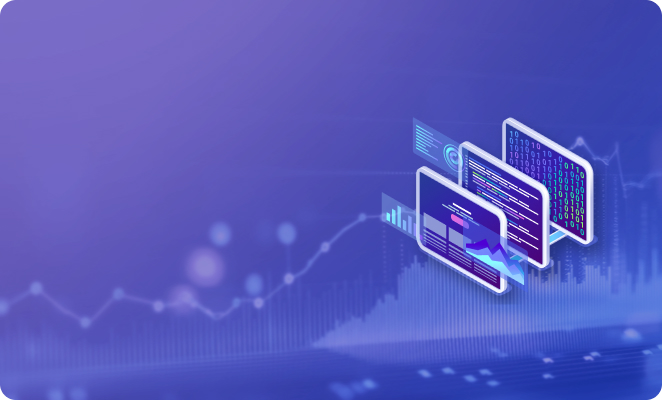
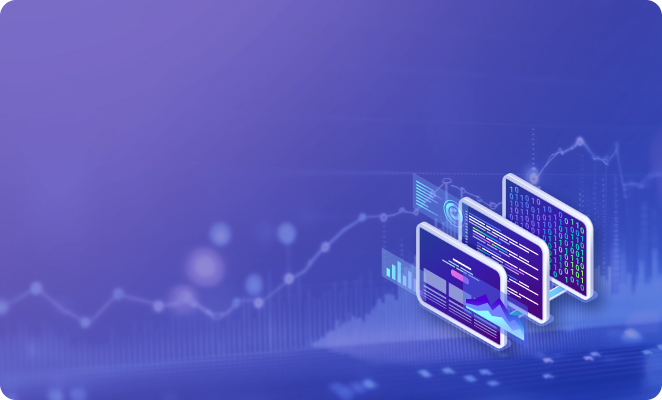
feat: 배경 이미지 지원이 추가된 purple-card 컴포넌트의 v2 변형 추가

Changed region(s): [[0.574, 0.3, 0.9366, 0.9]]

diff --git a/src/index2.html b/src/index2.html
@@ -1,101 +1,102 @@
 <!doctype html>
 <html lang="ko">
-  {% set pageTitle = "한국건강가정진흥원" %} {% include "_inc/head.html" %}
+{% set pageTitle = "한국건강가정진흥원" %} {% include "_inc/head.html" %}
 
-  <body>
-    {% include "_inc/header.html" %}
+<body>
+  {% include "_inc/header.html" %}
 
-    <main id="main-contents">
-      <section class="hero-section">
-        <div class="inner">
-          <div class="slogan-wrap">
-            <p class="sub-slogan">한국건강가정진흥원</p>
-            <h1 class="main-slogan">가족센터 평가시스템</h1>
-            <p class="desc">
-              가족센터의 헌신적인 노력을 체계적인 데이터로 자산화하여 기관의 전문성을 입증하는 신뢰의 장을 마련합니다.
-              <br />
-              현장의 소중한 기록들을 가치 있는 성과로 환원하며, 사용자 중심의 직관적인 평가 환경을 통해
-              <br />
-              가족 복지의 명확한 비전과 방향성을 제시해 드립니다.
-            </p>
-          </div>
+  <main id="main-contents">
+    <section class="hero-section">
+      <div class="inner">
+        <div class="slogan-wrap">
+          <p class="sub-slogan">한국건강가정진흥원</p>
+          <h1 class="main-slogan">가족센터 평가시스템</h1>
+          <p class="desc">
+            가족센터의 헌신적인 노력을 체계적인 데이터로 자산화하여 기관의 전문성을 입증하는 신뢰의 장을 마련합니다.
+            <br />
+            현장의 소중한 기록들을 가치 있는 성과로 환원하며, 사용자 중심의 직관적인 평가 환경을 통해
+            <br />
+            가족 복지의 명확한 비전과 방향성을 제시해 드립니다.
+          </p>
+        </div>
 
-          <div class="card-group">
-            <!-- 자체평가 카드 -->
-            <a class="card-item large purple-card">
+        <div class="card-group">
+          <!-- 자체평가 카드 -->
+          <a class="card-item large purple-card v2">
+            <div class="card-content">
+              <h2 class="card-title">센터평가</h2>
+              <p class="card-desc">신뢰할 수 있는 데이터 분석을 통해 객관적이고 정확한 평가를 실현합니다.</p>
+            </div>
+          </a>
+
+          <div class="card-sub-wrap">
+            <!-- 공지사항 카드 -->
+            <div class="card-item white-card notice-card">
+              <div class="card-head">
+                <h2 class="card-title">공지사항</h2>
+                <a href="#" class="btn-more"><span class="sr-only">더보기</span></a>
+              </div>
+              <ul class="notice-list">
+                <li>
+                  <a href="#" class="notice-item">
+                    <span class="text">제11회 아시아가족치료학회 연례회의</span>
+                    <span class="date">2026.04.24</span>
+                  </a>
+                </li>
+                <li>
+                  <a href="#" class="notice-item">
+                    <span class="text">2026 국제결혼중개업자 연간 교육일정</span>
+                    <span class="date">2026.04.20</span>
+                  </a>
+                </li>
+                <li>
+                  <a href="#" class="notice-item">
+                    <span class="text">촉법소년 연령 논의 관련 학습영상 자료</span>
+                    <span class="date">2026.03.28</span>
+                  </a>
+                </li>
+              </ul>
+            </div>
+
+            <!-- 자료실 카드 -->
+            <div class="card-item white-card archive-card">
               <div class="card-content">
-                <h2 class="card-title">자체평가</h2>
-                <p class="card-desc">투명한 성찰과 객관적 지표, 센터의 신뢰를 쌓는 첫걸음입니다.</p>
+                <h2 class="card-title">자료실</h2>
+                <a href="#" class="btn-go"><span class="sr-only">이동</span></a>
               </div>
-            </a>
-
-            <div class="card-sub-wrap">
-              <!-- 공지사항 카드 -->
-              <div class="card-item white-card notice-card">
-                <div class="card-head">
-                  <h2 class="card-title">공지사항</h2>
-                  <a href="#" class="btn-more"><span class="sr-only">더보기</span></a>
-                </div>
-                <ul class="notice-list">
-                  <li>
-                    <a href="#" class="notice-item">
-                      <span class="text">제11회 아시아가족치료학회 연례회의</span>
-                      <span class="date">2026.04.24</span>
-                    </a>
-                  </li>
-                  <li>
-                    <a href="#" class="notice-item">
-                      <span class="text">2026 국제결혼중개업자 연간 교육일정</span>
-                      <span class="date">2026.04.20</span>
-                    </a>
-                  </li>
-                  <li>
-                    <a href="#" class="notice-item">
-                      <span class="text">촉법소년 연령 논의 관련 학습영상 자료</span>
-                      <span class="date">2026.03.28</span>
-                    </a>
-                  </li>
-                </ul>
+              <div class="card-icon">
+                <img src="/assets/images/main/ico-archive.svg" alt="자료실 아이콘" />
               </div>
+            </div>
 
-              <!-- 자료실 카드 -->
-              <div class="card-item white-card archive-card">
-                <div class="card-content">
-                  <h2 class="card-title">자료실</h2>
-                  <a href="#" class="btn-go"><span class="sr-only">이동</span></a>
-                </div>
-                <div class="card-icon">
-                  <img src="/assets/images/main/ico-archive.svg" alt="자료실 아이콘" />
-                </div>
+            <!-- FAQ 카드 -->
+            <div class="card-item white-card faq-card">
+              <div class="card-content">
+                <h2 class="card-title">FAQ</h2>
+                <a href="#" class="btn-go"><span class="sr-only">이동</span></a>
               </div>
-
-              <!-- FAQ 카드 -->
-              <div class="card-item white-card faq-card">
-                <div class="card-content">
-                  <h2 class="card-title">FAQ</h2>
-                  <a href="#" class="btn-go"><span class="sr-only">이동</span></a>
-                </div>
-                <div class="card-icon">
-                  <img src="/assets/images/main/ico-faq.svg" alt="FAQ 아이콘" />
-                </div>
+              <div class="card-icon">
+                <img src="/assets/images/main/ico-faq.svg" alt="FAQ 아이콘" />
               </div>
+            </div>
 
-              <!-- Q&A 카드 -->
-              <div class="card-item white-card qna-card">
-                <div class="card-content">
-                  <h2 class="card-title">Q&A</h2>
-                  <a href="#" class="btn-go"><span class="sr-only">이동</span></a>
-                </div>
-                <div class="card-icon">
-                  <img src="/assets/images/main/ico-qna.svg" alt="Q&A 아이콘" />
-                </div>
+            <!-- Q&A 카드 -->
+            <div class="card-item white-card qna-card">
+              <div class="card-content">
+                <h2 class="card-title">Q&A</h2>
+                <a href="#" class="btn-go"><span class="sr-only">이동</span></a>
+              </div>
+              <div class="card-icon">
+                <img src="/assets/images/main/ico-qna.svg" alt="Q&A 아이콘" />
               </div>
             </div>
           </div>
         </div>
-      </section>
-    </main>
+      </div>
+    </section>
+  </main>
 
-    {% include "_inc/footer.html" %}
-  </body>
+  {% include "_inc/footer.html" %}
+</body>
+
 </html>

diff --git a/src/index.html b/src/index.html
@@ -1,101 +1,102 @@
 <!doctype html>
 <html lang="ko">
-  {% set pageTitle = "한국건강가정진흥원" %} {% include "_inc/head.html" %}
+{% set pageTitle = "한국건강가정진흥원" %} {% include "_inc/head.html" %}
 
-  <body>
-    {% include "_inc/header.html" %}
+<body>
+  {% include "_inc/header.html" %}
 
-    <main id="main-contents">
-      <section class="hero-section">
-        <div class="inner">
-          <div class="slogan-wrap">
-            <p class="sub-slogan">한국건강가정진흥원</p>
-            <h1 class="main-slogan">가족센터 평가시스템</h1>
-            <p class="desc">
-              가족센터의 헌신적인 노력을 체계적인 데이터로 자산화하여 기관의 전문성을 입증하는 신뢰의 장을 마련합니다.
-              <br />
-              현장의 소중한 기록들을 가치 있는 성과로 환원하며, 사용자 중심의 직관적인 평가 환경을 통해
-              <br />
-              가족 복지의 명확한 비전과 방향성을 제시해 드립니다.
-            </p>
-          </div>
+  <main id="main-contents">
+    <section class="hero-section">
+      <div class="inner">
+        <div class="slogan-wrap">
+          <p class="sub-slogan">한국건강가정진흥원</p>
+          <h1 class="main-slogan">가족센터 평가시스템</h1>
+          <p class="desc">
+            가족센터의 헌신적인 노력을 체계적인 데이터로 자산화하여 기관의 전문성을 입증하는 신뢰의 장을 마련합니다.
+            <br />
+            현장의 소중한 기록들을 가치 있는 성과로 환원하며, 사용자 중심의 직관적인 평가 환경을 통해
+            <br />
+            가족 복지의 명확한 비전과 방향성을 제시해 드립니다.
+          </p>
+        </div>
 
-          <div class="card-group">
-            <!-- 자체평가 카드 -->
-            <a class="card-item large purple-card">
+        <div class="card-group">
+          <!-- 자체평가 카드 -->
+          <a class="card-item large purple-card">
+            <div class="card-content">
+              <h2 class="card-title">자체평가</h2>
+              <p class="card-desc">투명한 성찰과 객관적 지표, 센터의 신뢰를 쌓는 첫걸음입니다.</p>
+            </div>
+          </a>
+
+          <div class="card-sub-wrap">
+            <!-- 공지사항 카드 -->
+            <div class="card-item white-card notice-card">
+              <div class="card-head">
+                <h2 class="card-title">공지사항</h2>
+                <a href="#" class="btn-more"><span class="sr-only">더보기</span></a>
+              </div>
+              <ul class="notice-list">
+                <li>
+                  <a href="#" class="notice-item">
+                    <span class="text">제11회 아시아가족치료학회 연례회의</span>
+                    <span class="date">2026.04.24</span>
+                  </a>
+                </li>
+                <li>
+                  <a href="#" class="notice-item">
+                    <span class="text">2026 국제결혼중개업자 연간 교육일정</span>
+                    <span class="date">2026.04.20</span>
+                  </a>
+                </li>
+                <li>
+                  <a href="#" class="notice-item">
+                    <span class="text">촉법소년 연령 논의 관련 학습영상 자료</span>
+                    <span class="date">2026.03.28</span>
+                  </a>
+                </li>
+              </ul>
+            </div>
+
+            <!-- 자료실 카드 -->
+            <div class="card-item white-card archive-card">
               <div class="card-content">
-                <h2 class="card-title">자체평가</h2>
-                <p class="card-desc">투명한 성찰과 객관적 지표, 센터의 신뢰를 쌓는 첫걸음입니다.</p>
+                <h2 class="card-title">자료실</h2>
+                <a href="#" class="btn-go"><span class="sr-only">이동</span></a>
               </div>
-            </a>
-
-            <div class="card-sub-wrap">
-              <!-- 공지사항 카드 -->
-              <div class="card-item white-card notice-card">
-                <div class="card-head">
-                  <h2 class="card-title">공지사항</h2>
-                  <a href="#" class="btn-more"><span class="sr-only">더보기</span></a>
-                </div>
-                <ul class="notice-list">
-                  <li>
-                    <a href="#" class="notice-item">
-                      <span class="text">제11회 아시아가족치료학회 연례회의</span>
-                      <span class="date">2026.04.24</span>
-                    </a>
-                  </li>
-                  <li>
-                    <a href="#" class="notice-item">
-                      <span class="text">2026 국제결혼중개업자 연간 교육일정</span>
-                      <span class="date">2026.04.20</span>
-                    </a>
-                  </li>
-                  <li>
-                    <a href="#" class="notice-item">
-                      <span class="text">촉법소년 연령 논의 관련 학습영상 자료</span>
-                      <span class="date">2026.03.28</span>
-                    </a>
-                  </li>
-                </ul>
+              <div class="card-icon">
+                <img src="/assets/images/main/ico-archive.svg" alt="자료실 아이콘" />
               </div>
+            </div>
 
-              <!-- 자료실 카드 -->
-              <div class="card-item white-card archive-card">
-                <div class="card-content">
-                  <h2 class="card-title">자료실</h2>
-                  <a href="#" class="btn-go"><span class="sr-only">이동</span></a>
-                </div>
-                <div class="card-icon">
-                  <img src="/assets/images/main/ico-archive.svg" alt="자료실 아이콘" />
-                </div>
+            <!-- FAQ 카드 -->
+            <div class="card-item white-card faq-card">
+              <div class="card-content">
+                <h2 class="card-title">FAQ</h2>
+                <a href="#" class="btn-go"><span class="sr-only">이동</span></a>
               </div>
-
-              <!-- FAQ 카드 -->
-              <div class="card-item white-card faq-card">
-                <div class="card-content">
-                  <h2 class="card-title">FAQ</h2>
-                  <a href="#" class="btn-go"><span class="sr-only">이동</span></a>
-                </div>
-                <div class="card-icon">
-                  <img src="/assets/images/main/ico-faq.svg" alt="FAQ 아이콘" />
-                </div>
+              <div class="card-icon">
+                <img src="/assets/images/main/ico-faq.svg" alt="FAQ 아이콘" />
               </div>
+            </div>
 
-              <!-- Q&A 카드 -->
-              <div class="card-item white-card qna-card">
-                <div class="card-content">
-                  <h2 class="card-title">Q&A</h2>
-                  <a href="#" class="btn-go"><span class="sr-only">이동</span></a>
-                </div>
-                <div class="card-icon">
-                  <img src="/assets/images/main/ico-qna.svg" alt="Q&A 아이콘" />
-                </div>
+            <!-- Q&A 카드 -->
+            <div class="card-item white-card qna-card">
+              <div class="card-content">
+                <h2 class="card-title">Q&A</h2>
+                <a href="#" class="btn-go"><span class="sr-only">이동</span></a>
+              </div>
+              <div class="card-icon">
+                <img src="/assets/images/main/ico-qna.svg" alt="Q&A 아이콘" />
               </div>
             </div>
           </div>
         </div>
-      </section>
-    </main>
+      </div>
+    </section>
+  </main>
 
-    {% include "_inc/footer.html" %}
-  </body>
+  {% include "_inc/footer.html" %}
+</body>
+
 </html>

diff --git a/public/assets/css/contents.css b/public/assets/css/contents.css
@@ -154,6 +154,9 @@ main .inner {
   color: #fff;
   box-shadow: 0 4px 12px 0 rgba(0, 0, 0, 0.18);
 }
+.purple-card.v2 {
+  background: url('../images/main/card-self-bg2.jpg') no-repeat center center / cover;
+}
 
 .purple-card:hover {
   box-shadow: 4px 8px 24px 0 rgba(0, 0, 0, 0.28);
